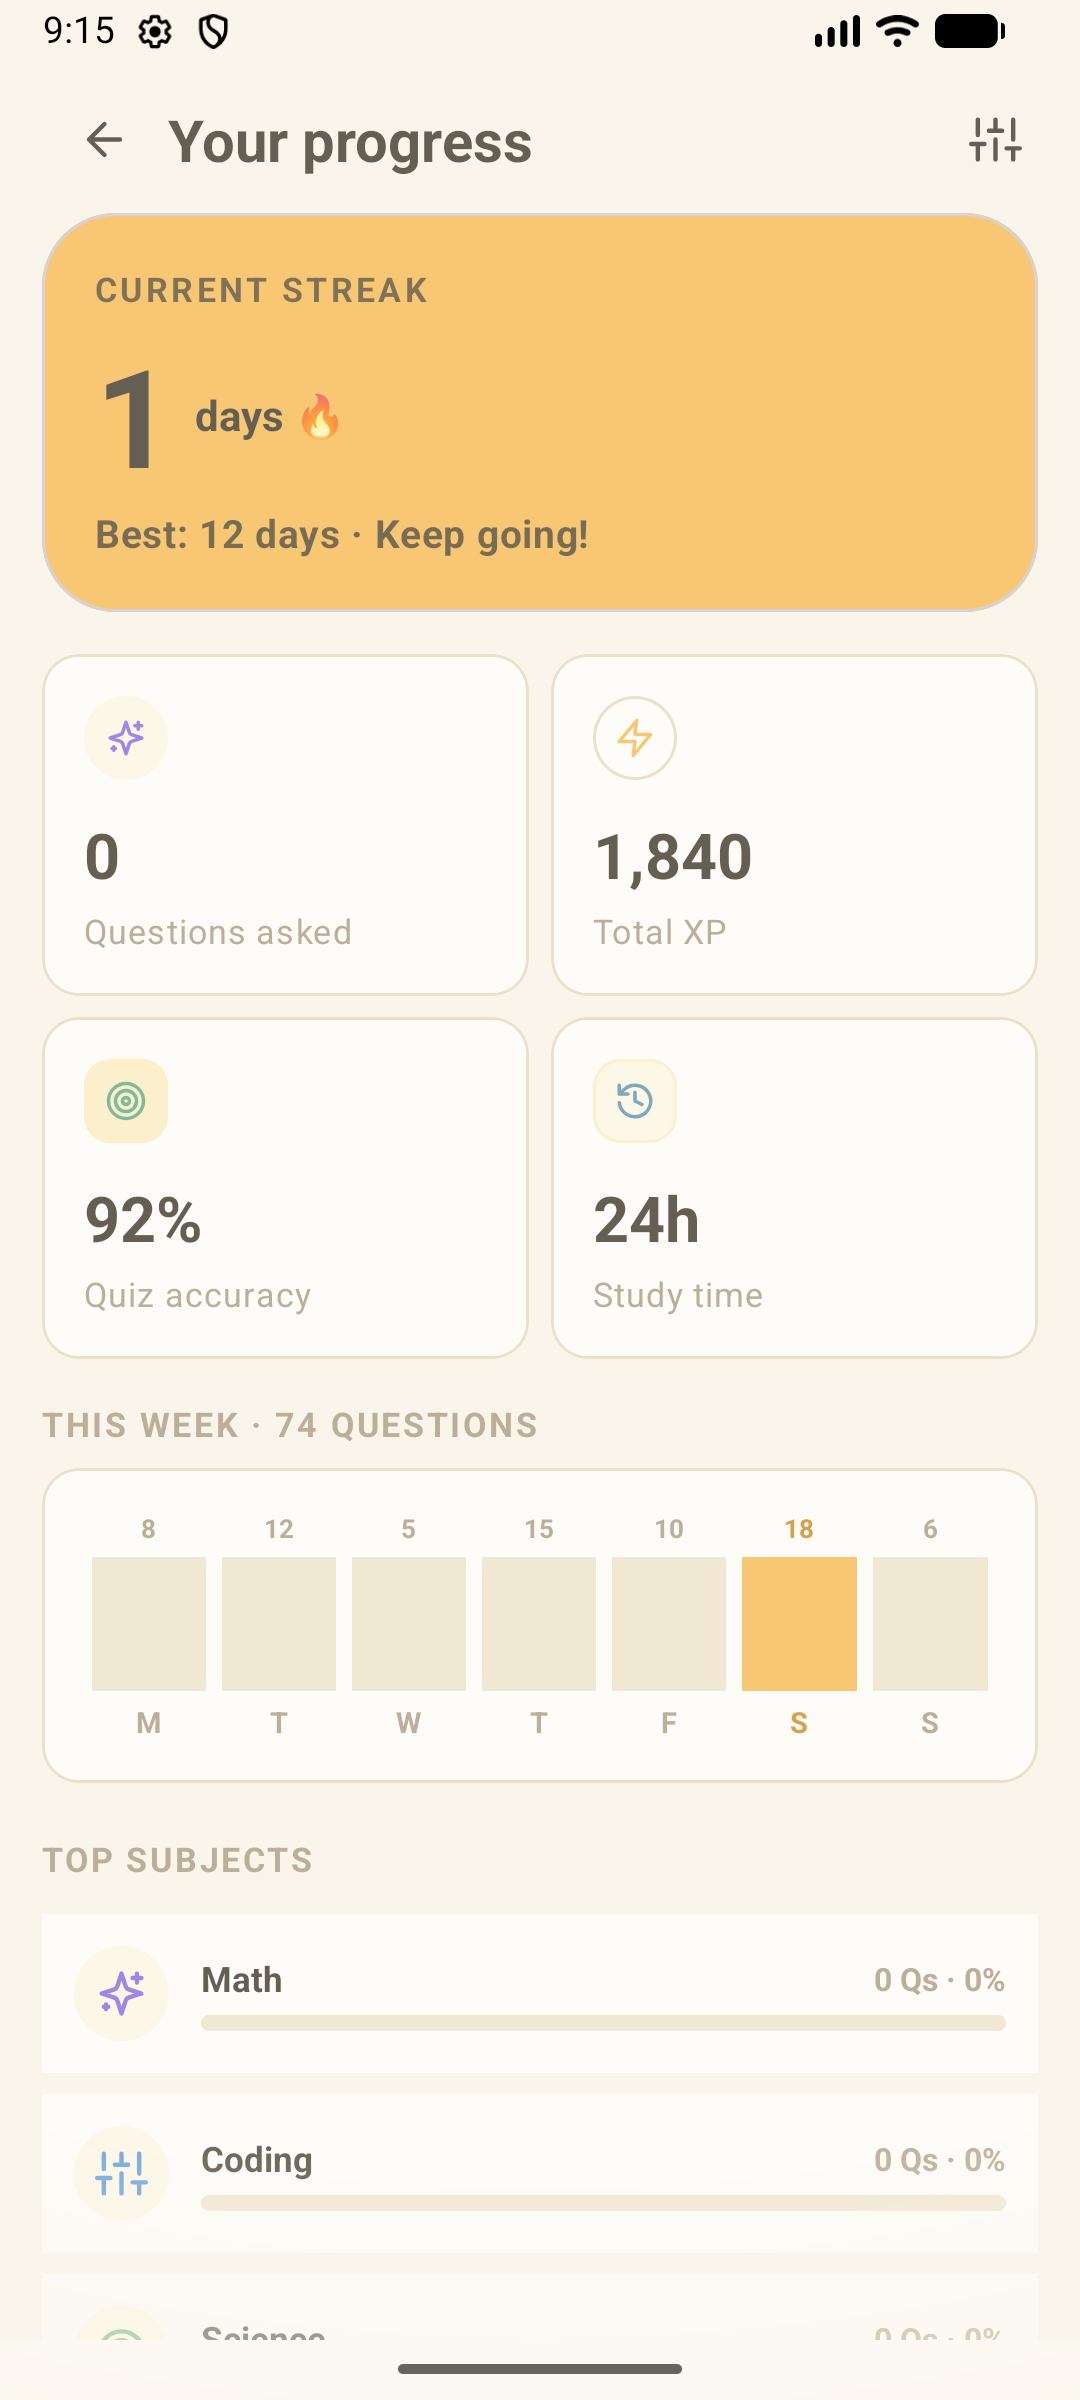
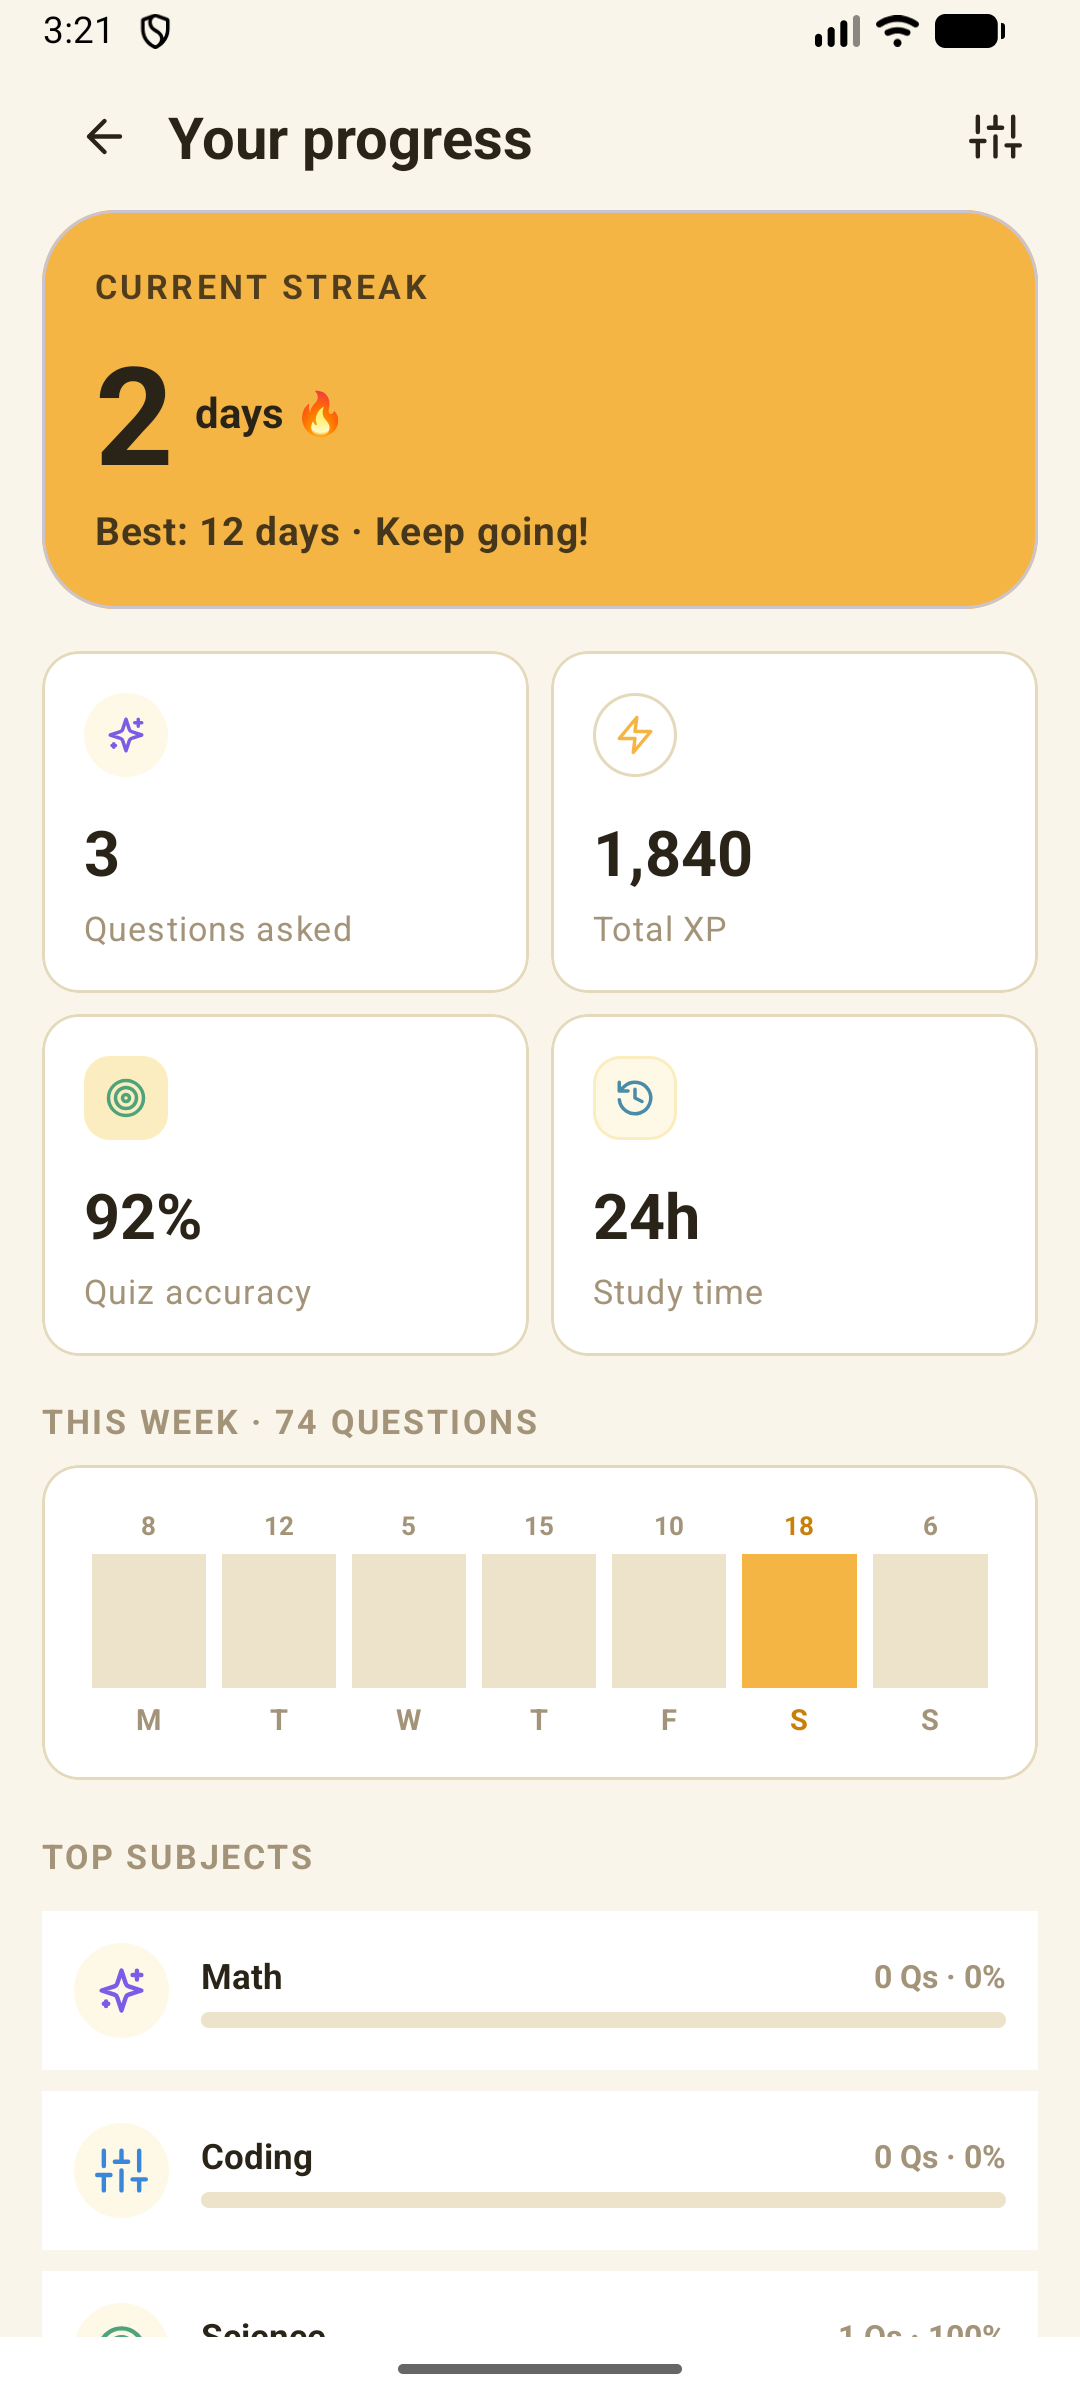
chore(claude): update CURRENT_TASK and design-ref screenshots

diff --git a/.claude/CURRENT_TASK.md b/.claude/CURRENT_TASK.md
@@ -6,7 +6,6 @@
 
 ## Trạng thái hiện tại
 
-**Phase:** — (tất cả 6 phase 0–5 đã hoàn thành)  
+**Phase:** — (Stats & Social redesign hoàn thành)  
 **Bước đang làm:** — (dừng lại, chờ user)  
-**Files đã sửa, chưa commit:** —  
 **Bước tiếp theo:** Chờ user quay lại
